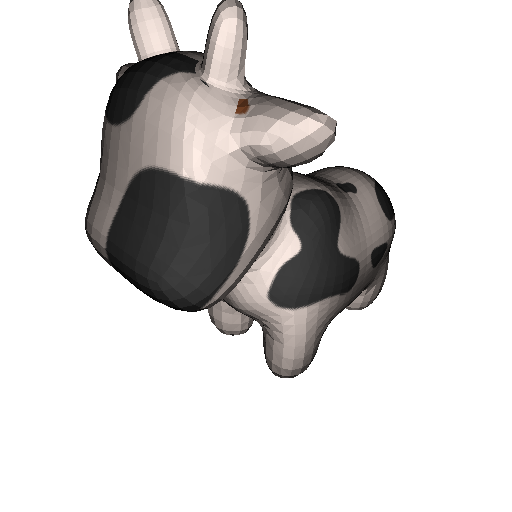
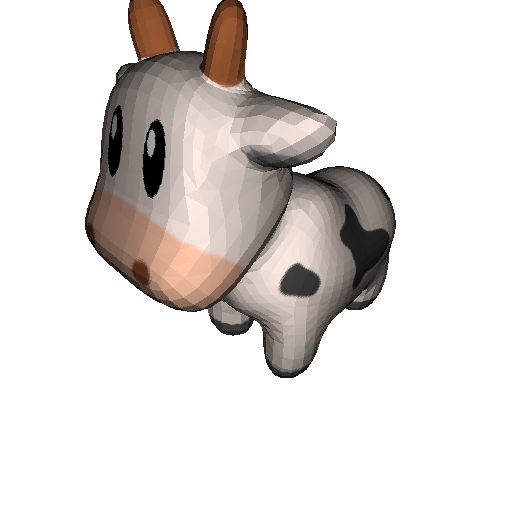
fix texture mapping for basic meshes

diff --git a/src/com/JavaPathtracer/material/Texture.java b/src/com/JavaPathtracer/material/Texture.java
@@ -43,7 +43,7 @@ public class Texture implements ISampleable, ISampleableScalar {
 		
 		// Clamp
 		x = Math.max(Math.min(x, texture.getWidth() - 1), 0);
-		y = Math.max(Math.min(y, texture.getHeight() - 1), 0);
+		y = texture.getHeight() - Math.max(Math.min(y, texture.getHeight() - 1), 0);
 		
 		int rgb = texture.getRGB(x, y);
 		int r = (rgb >> 16) & 0xFF;
@@ -65,7 +65,7 @@ public class Texture implements ISampleable, ISampleableScalar {
 				
 		// Clamp
 		x = Math.max(Math.min(x, texture.getWidth() - 1), 0);
-		y = Math.max(Math.min(y, texture.getHeight() - 1), 0);
+		y = texture.getHeight() - Math.max(Math.min(y, texture.getHeight() - 1), 0);
 				
 		int rgb = texture.getRGB(x, y);
 		int r = (rgb >> 16) & 0xFF;
